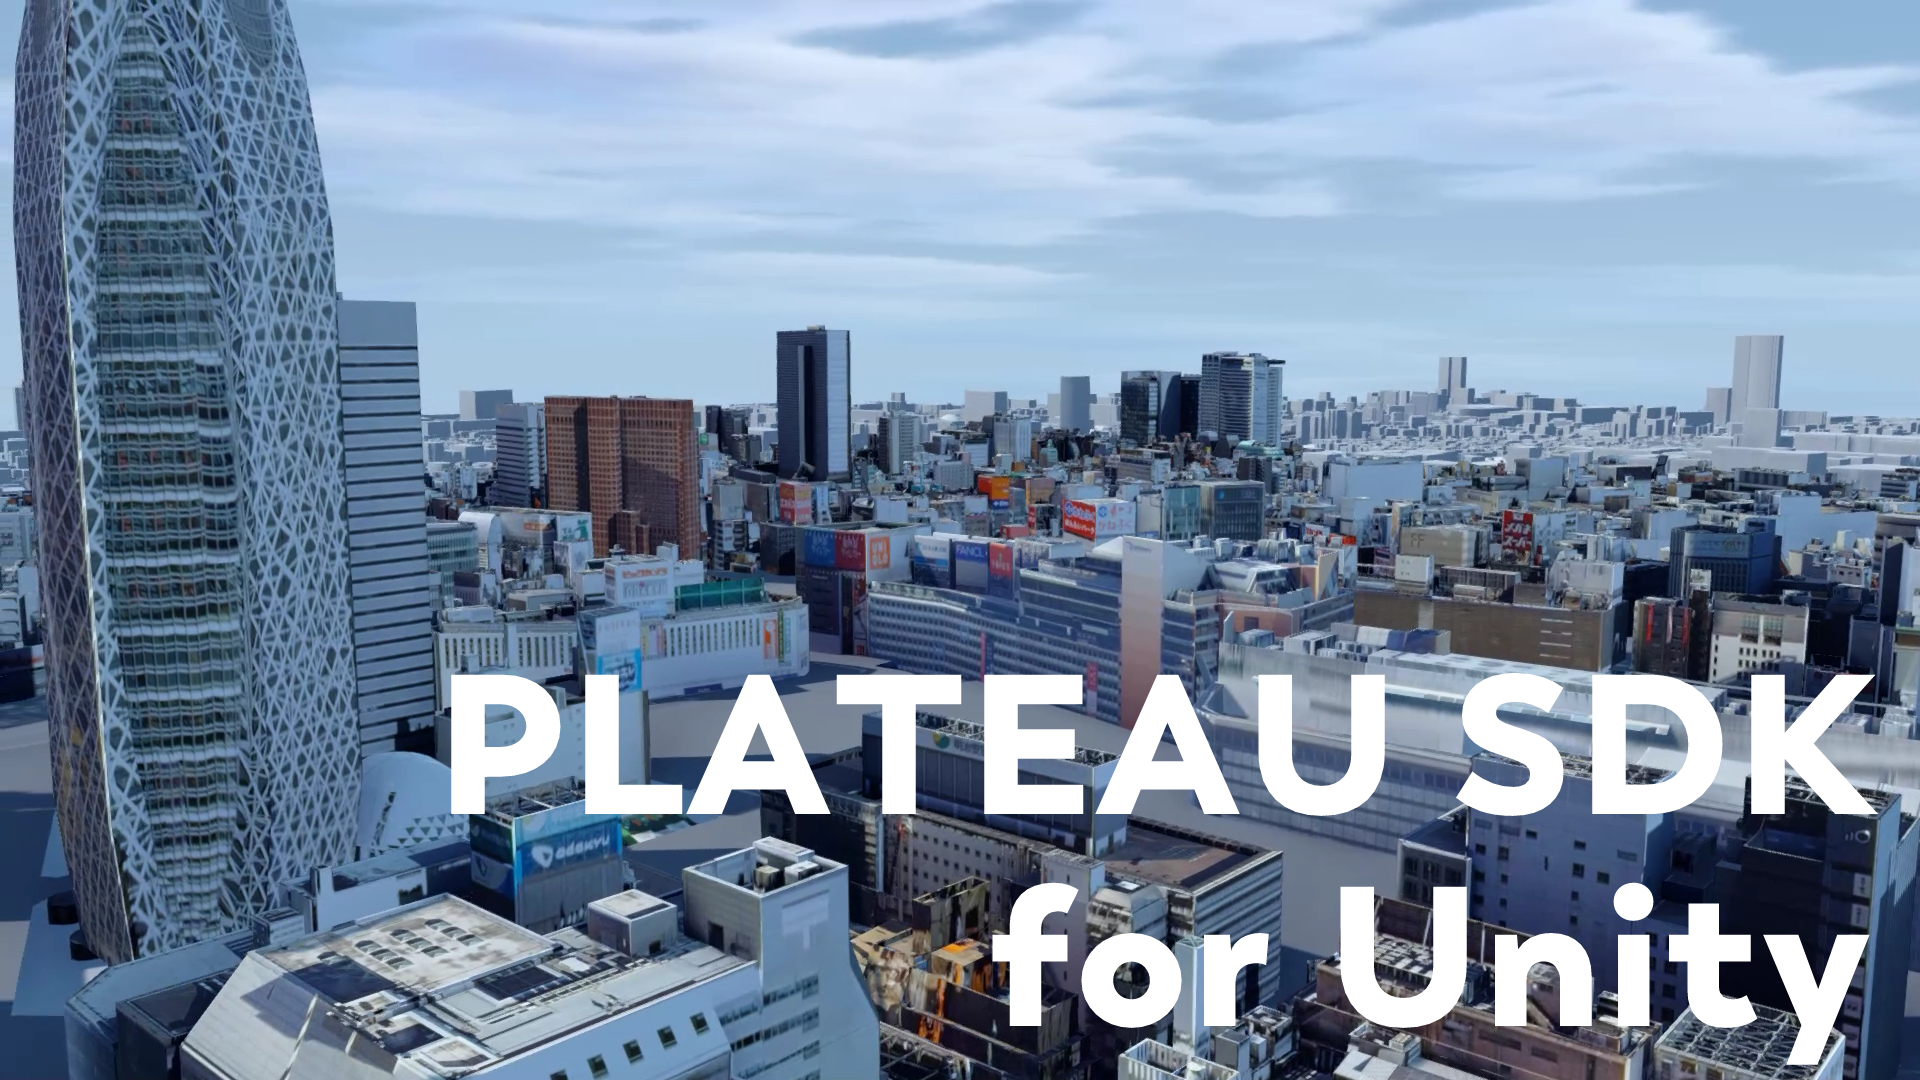
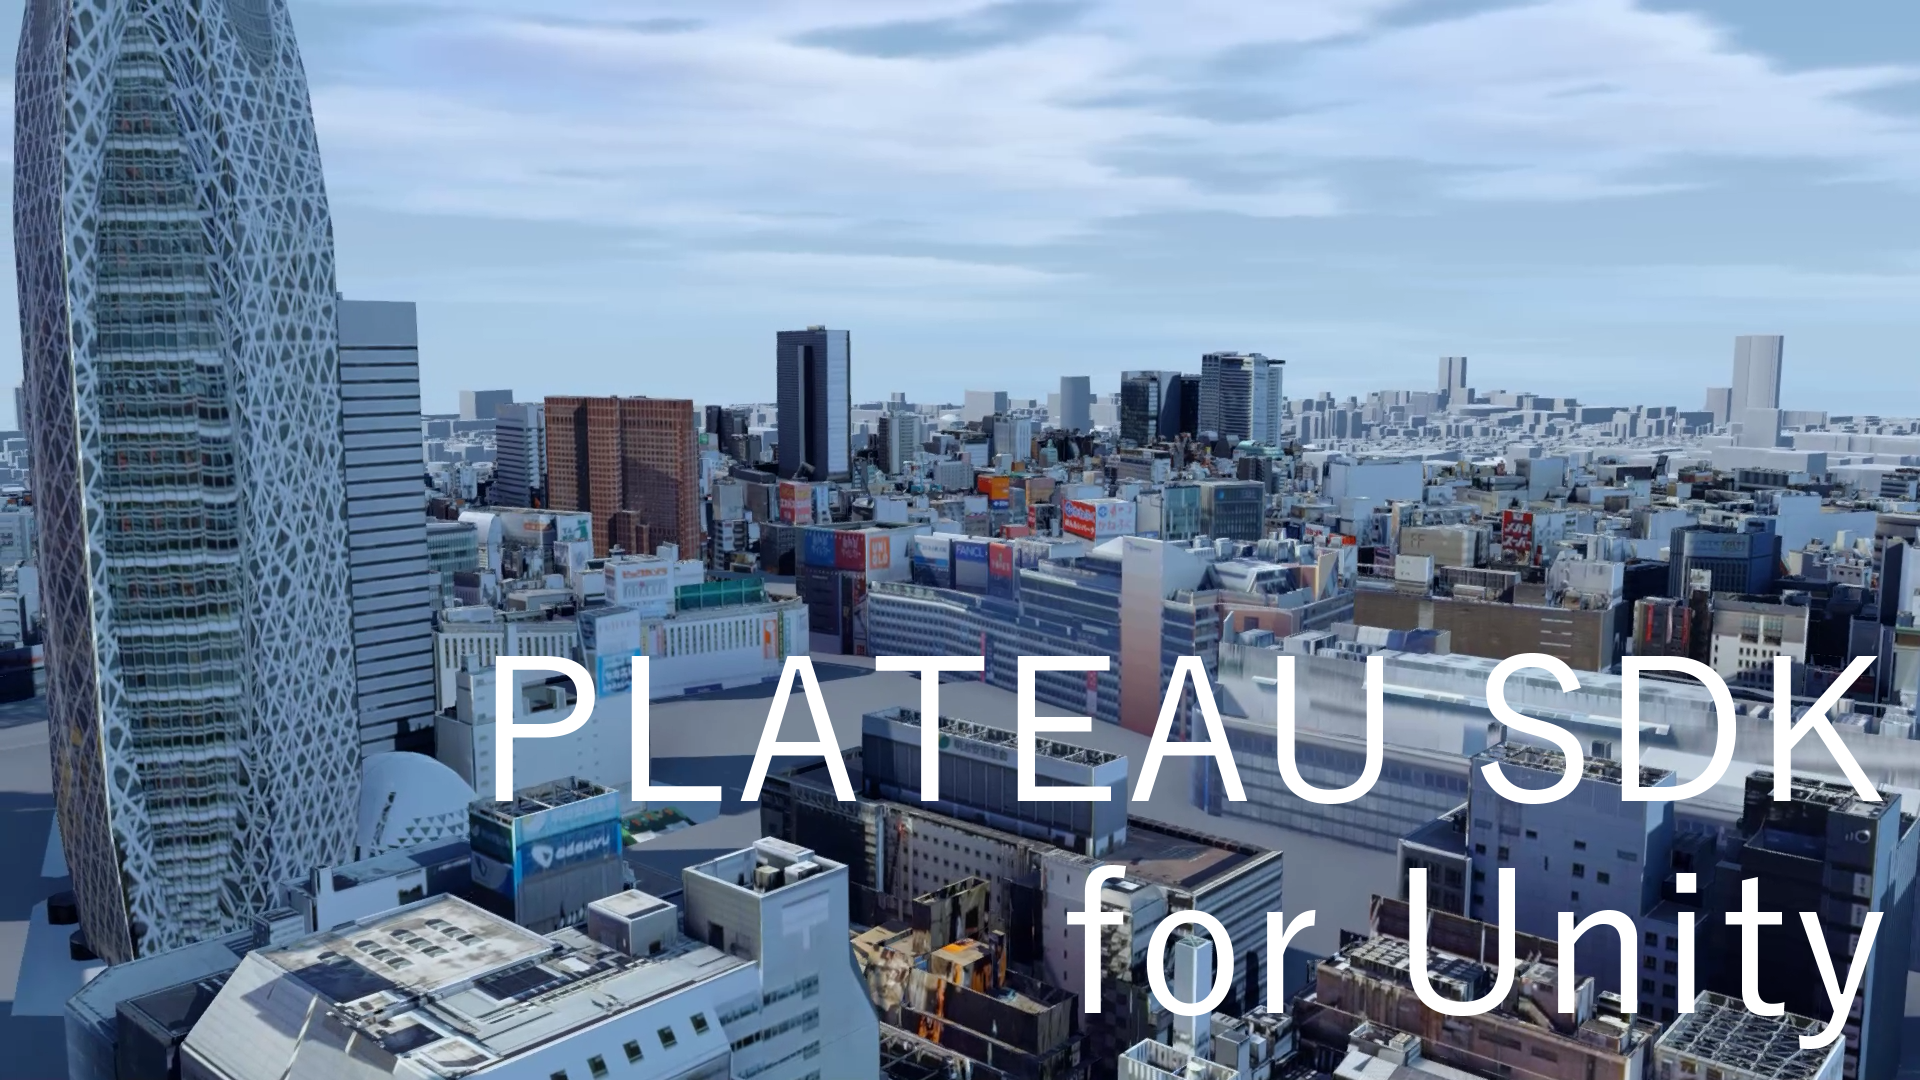
README、マニュアル更新 (#88)
* README更新

* チュートリアルページ削除

* アイキャッチ画像差し替え

* README更新

Changed region(s): [[0.2188, 0.5806, 0.7188, 0.7639], [0.5, 0.7944, 1.0, 1.0], [0.75, 0.5806, 1.0, 0.7639]]

diff --git a/README.md b/README.md
@@ -1,15 +1,33 @@
-# PLATEAU SDK for Unity
-
-このパッケージには、[PLATEAU](https://www.mlit.go.jp/plateau/)の3D都市モデルデータを利用するためのAPI、サンプルが含まれます。  
-PLATEAU SDK for Unityを利用することで、実世界を舞台にしたゲームの開発や、PLATEAUの豊富なデータを活用したシミュレーションを簡単に行うことができます。
 ![](Documentation~/resources/index/eyecatch.png)
 
-## 動作環境
-- Windows (x86_64)
-- MacOS (ARM)
-- Android, iOS
+# PLATEAU SDK for Unity
+PLATEAU SDK for Unityは、[PLATEAU](https://www.mlit.go.jp/plateau/)の3D都市モデルデータをUnityで扱うためのツールキットであり、主に以下の機能を提供しています。
+
+- CityGMLの直感的なインポート
+  - 地図上での範囲選択による3D都市モデルの抽出
+  - PLATEAUのサーバーで提供されるCityGMLデータへのアクセス
+- 3D都市モデルに含まれる地物のフィルタリング
+- 3D都市モデルの3Dファイル形式へのエクスポート
+- 3D都市モデルの属性にアクセスするためのC# API
+
+![](Documentation~/resources/index/sdk_outline.png)
+
+PLATEAU SDK for Unityを利用することで、実世界を舞台にしたアプリケーションの開発や、PLATEAUの豊富なデータを活用したシミュレーションを簡単に行うことができます。
+
+# 動作環境
+- Windows（x86_64）
+- MacOS（ARM）
+- Android、iOS
   - モバイル向けには、一部の機能のみ（緯度経度と直交座標の相互変換など）をサポートしています。
 
-## 使用方法
-- SDKの最新版は本リポジトリの [Release](https://github.com/Synesthesias/PLATEAU-SDK-for-Unity/releases) からダウンロードしてください。  
-- インストール手順、使用方法については [マニュアル](https://synesthesias.github.io/PLATEAU-SDK-for-Unity/index.html) をご覧ください。
+# 利用手順
+- SDKの最新版は[Releaseページ](https://github.com/Project-PLATEAU/PLATEAU-SDK-for-Unity/releases)からダウンロードしてください。
+- インストール手順、使用方法については[マニュアル](https://Project-PLATEAU.github.io/PLATEAU-SDK-for-Unity/index.html) をご覧ください。
+
+## ライセンス
+- 本リポジトリはMITライセンスで提供されています。
+- ソースコードおよび関連ドキュメントの著作権は国土交通省に帰属します。
+
+## 注意事項
+- 本リポジトリの内容は予告なく変更・削除する可能性があります。
+- 本リポジトリの利用により生じた損失及び損害等について、国土交通省はいかなる責任も負わないものとします。
